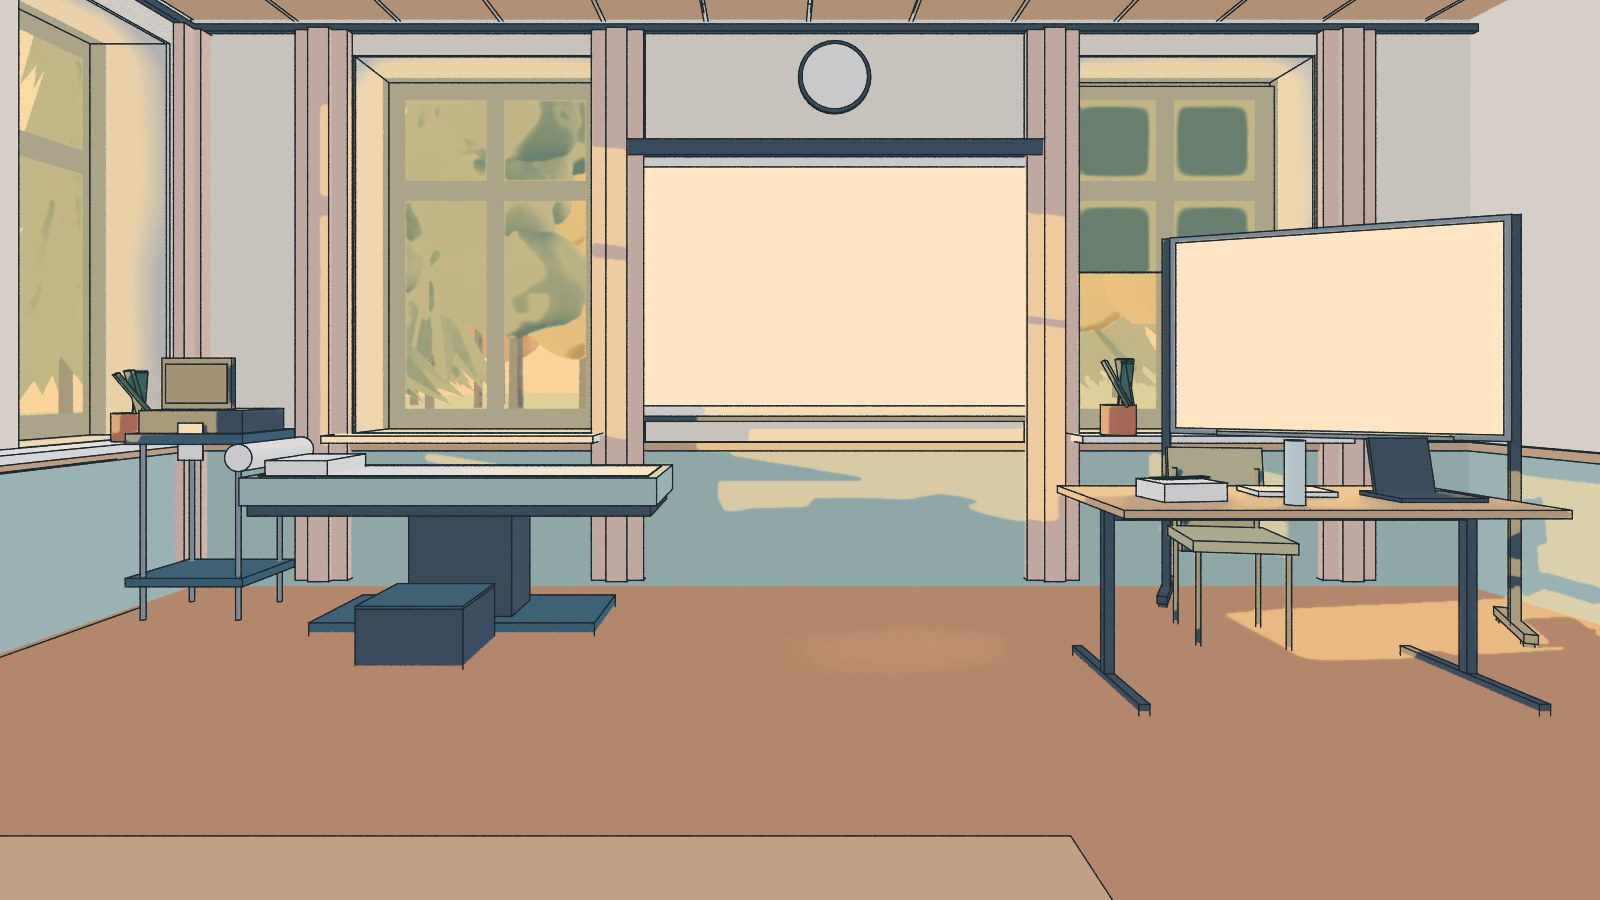
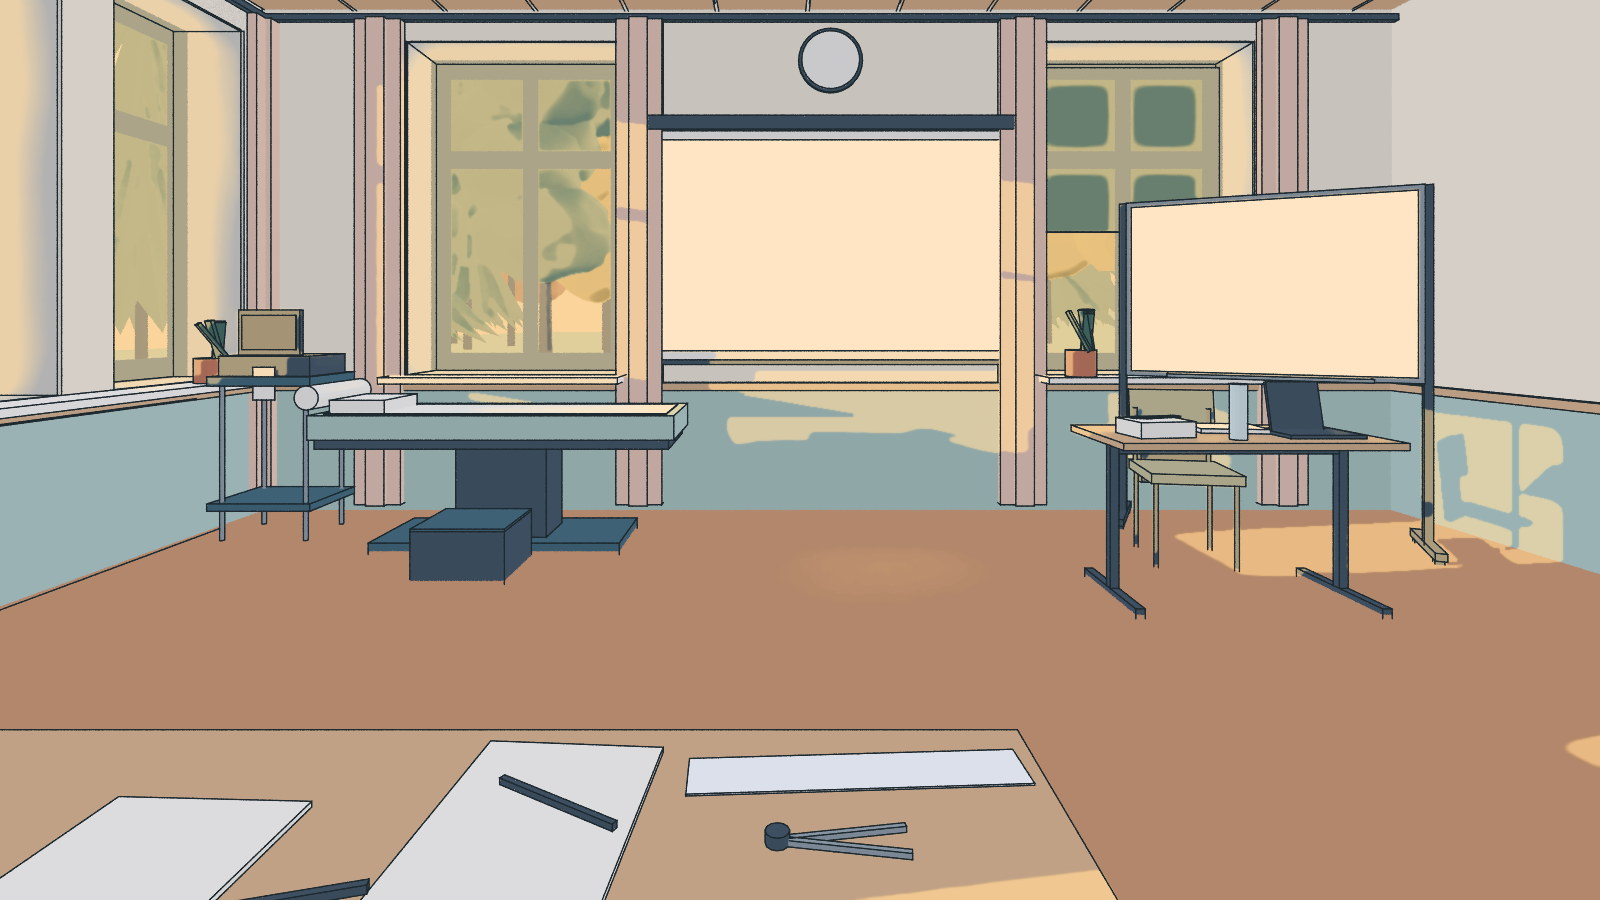
LEHRSAAL: eigene Bank mit Werkzeugen im Bild (Kamera 18 mm, tiefer), Dozententisch kleiner

diff --git a/gen/blender/szene_lehrsaal.py b/gen/blender/szene_lehrsaal.py
@@ -51,16 +51,17 @@ PALETTE = {
     "ls_kobalt": "#2F5DA8", "ls_leuchte": "#FBF6EA", "ls_glas": "#1E2A30", "ls_flasche": "#D6E4DD",
     "ls_pflanze": "#2F5A45", "ls_topf": "#C2683F", "ls_jacke": "#8E9F6B", "ls_jacke2": "#E39A86",
     "ls_stuhl": "#2E5E6B", "ls_lampe": "#C2683F", "ls_tasche": "#3F5F8C", "ls_tasche2": "#7A4E6E",
+    "ls_streifen": "#FFF8F4",
 }
 OHNE_LINIE = set()
 OHNE_SCHATTIERUNG = {"ls_projektion", "ls_tafel", "ls_leuchte", "ls_glas"}
 
-# Spielkamera: die Spielerin sitzt an der ersten Bank (Gangplatz links, Augenhöhe 1,2), Blick frontal zur Stirnwand
-# (`gier` 180: Leinwand ein exaktes Rechteck, Verschiebung statt Drehung), 20 mm. Im Bild: Liege und Wagen links vor
-# dem Giebelfenster, Leinwand mit Uhr in der Mitte, Dozententisch und Whiteboard rechts; die eigene Bank liegt unter dem
-# Bildrand bis auf ihre helle Holzkante (man sitzt). Die Türen liegen rechts außerhalb: der Ausgang ist ein Pfeil am rechten Rand.
+# Spielkamera: die Spielerin sitzt an der ersten Bank (Gangplatz links, Augenhöhe 1,25, leicht zurückgelehnt), Blick frontal
+# zur Stirnwand (`gier` 180: Leinwand ein exaktes Rechteck, Verschiebung statt Drehung), 18 mm. Im Bild: Liege und Wagen links vor
+# dem Giebelfenster, Leinwand mit Uhr in der Mitte, Dozententisch und Whiteboard rechts; unten die hintere Hälfte der eigenen
+# Bank mit Block, EKG-Streifen und Zirkel (`werkzeug`). Die Türen liegen rechts außerhalb: der Ausgang ist ein Pfeil am rechten Rand.
 # Sonne 08:10 Anfang November (47° N): Azimut 126°, Höhe 9°, fast senkrecht vor der Südostfront, lange Lichtbahnen.
-KAMERA = dict(ort=(5.65, 2.85, 1.2), ziel=(GIEBEL, 3.0, 0.8), gier=180.0, brennweite=20, sonne=(126.0, 9.0),
+KAMERA = dict(ort=(5.75, 2.85, 1.25), ziel=(GIEBEL, 3.0, 0.4), gier=180.0, brennweite=18, sonne=(126.0, 9.0),
               licht="#FFD9A3", anteil=0.6, himmel=["#9EC3E0", "#C9DCE6", "#F2D2B0"],
               schatten=0.24, schattenfarbe="#6F7FB0",   # ohne Sonne: ein Viertel zum kühlen Blau (Lofi-Vorlagen), Sonne Pfirsich
               linien_nur=("Trakt A EG", SAMMLUNG), ausbau=(SAMMLUNG,), ohne_scheiben=True,
@@ -201,14 +202,14 @@ def ausbau(h):
         box(name + " Zarge", xm - 0.02, ym - ly / 2 + 0.1, xm + 0.02, ym + ly / 2 - 0.1, h_ - 0.09, h_ - 0.03, "ls_dunkel")
 
     tx, ty = 2.1, 4.9                                          # Dozententisch rechts vor der Leinwand, quer zum Raum
-    tisch(tx, ty, 0.75, 1.6, name="LS Dozententisch")
-    kiste((0.2, 0.26, 0.07), (tx + 0.05, ty - 0.45, TISCH_H + 0.035), "ls_papier", dreh=8, name="LS Linealschachtel")
+    tisch(tx, ty, 0.6, 1.2, name="LS Dozententisch")      # klein: ein Pult für Laptop und Schachtel (Nutzer)
+    kiste((0.2, 0.26, 0.07), (tx + 0.05, ty - 0.35, TISCH_H + 0.035), "ls_papier", dreh=8, name="LS Linealschachtel")
     for k in range(5):
-        kiste((0.04, 0.19, 0.004), (tx + 0.0 + 0.025 * k, ty - 0.45, TISCH_H + 0.075 + 0.003 * k), "ls_kobalt", dreh=8 + 3 * k, name="LS Lineal")
+        kiste((0.04, 0.19, 0.004), (tx + 0.0 + 0.025 * k, ty - 0.35, TISCH_H + 0.075 + 0.003 * k), "ls_kobalt", dreh=8 + 3 * k, name="LS Lineal")
     kiste((0.21, 0.3, 0.02), (tx - 0.1, ty + 0.05, TISCH_H + 0.01), "ls_papier", dreh=-6, name="LS EKG-Blaetter")
-    kiste((0.24, 0.33, 0.015), (tx + 0.05, ty + 0.5, TISCH_H + 0.008), "ls_dunkel", dreh=0, name="LS Laptop")
-    kiste((0.24, 0.015, 0.22), (tx - 0.07, ty + 0.5, TISCH_H + 0.12), "ls_dunkel", dreh=90, kipp=-12, name="LS Laptop Deckel")
-    zyl(0.035, 0.24, (tx + 0.22, ty - 0.1, TISCH_H + 0.12), "ls_flasche", v=14, name="LS Flasche")
+    kiste((0.24, 0.33, 0.015), (tx + 0.05, ty + 0.35, TISCH_H + 0.008), "ls_dunkel", dreh=0, name="LS Laptop")
+    kiste((0.24, 0.015, 0.22), (tx - 0.07, ty + 0.35, TISCH_H + 0.12), "ls_dunkel", dreh=90, kipp=-12, name="LS Laptop Deckel")
+    zyl(0.035, 0.24, (tx + 0.18, ty - 0.05, TISCH_H + 0.12), "ls_flasche", v=14, name="LS Flasche")
 
     # Whiteboard auf fahrbarem Gestell hinter dem Tisch, vor dem rechten Giebelfenster, zur Klasse gedreht (die Flurwand
     # liegt außerhalb des Bilds der Spielkamera an der ersten Bank). Lokal +x = Tafelseite.
@@ -266,9 +267,23 @@ def ausbau(h):
         if tasche:
             kiste((0.34, 0.14, 0.3), P(0.32, -0.05, 0.15), tasche, dreh=dreh + zr.uniform(-20, 20), fase=0.04, name=name + " Tasche")
 
-    stuhl(tx - 0.65, ty + 0.1, dreh=90 - 10, name="LS Stuhl Dozentin", jacke="ls_dunkel")   # hinter dem Tisch (rechts am Bildrand lag er als dunkler Klotz)
+    stuhl(tx - 0.58, ty + 0.1, dreh=90 - 10, name="LS Stuhl Dozentin", jacke="ls_dunkel")   # hinter dem Tisch (rechts am Bildrand lag er als dunkler Klotz)
 
     # ---------------- Tischreihen ----------------
+    def werkzeug(xm, yp):
+        """Platz der Spielerin an der ersten Bank, im unteren Bildrand der Spielkamera: Block mit Bleistift, ein
+        EKG-Streifen (Papier wie die Leinwand, die Kurve legt das Spiel darauf) und der Zirkel, offen. Nur auf der
+        hinteren Hälfte der Platte (x < 5,05), die vordere liegt unter dem Bildrand."""
+        z = TISCH_H
+        kiste((0.21, 0.29, 0.006), (xm - 0.06, yp - 0.25, z + 0.003), "ls_papier", dreh=90 - 4, name="LS Platz Block")
+        kiste((0.007, 0.16, 0.007), (xm - 0.08, yp - 0.23, z + 0.012), "ls_dunkel", dreh=-30, name="LS Platz Stift")
+        kiste((0.07, 0.38, 0.002), (xm - 0.15, yp + 0.09, z + 0.004), "ls_streifen", dreh=3, name="LS Platz Streifen")
+        hx, hy = xm - 0.03, yp + 0.0                           # Zirkel: Kopf, zwei Schenkel offen zur Seite (+y), flach gelegt
+        zyl(0.012, 0.012, (hx, hy, z + 0.008), "ls_dunkel", v=12, name="LS Platz Zirkel Kopf")
+        for w in (-9, 9):
+            ri = (-math.sin(math.radians(w)), math.cos(math.radians(w)))
+            kiste((0.006, 0.13, 0.006), (hx + 0.065 * ri[0], hy + 0.065 * ri[1], z + 0.004), "ls_metall", dreh=w, name="LS Platz Zirkel")
+
     for r, xm in enumerate(REIHEN_X):
         for (ya, yb) in BLOECKE:
             tisch(xm, (ya + yb) / 2, TISCH_T, yb - ya)
@@ -279,9 +294,14 @@ def ausbau(h):
                 tasche = zr.choice((None,) * 8 + ("ls_tasche", "ls_tasche2"))
                 if r == len(REIHEN_X) - 1: tasche = None    # keine dunklen Klötze am unteren Bildrand (ART_BIBLE §3.3)
                 stuhl(xm + TISCH_T / 2 + 0.3 + raus, yp, dreh, jacke=jacke, tasche=tasche)
+                platz = r == 0 and (ya, yb) == BLOECKE[0] and p == 2     # Platz der Spielerin (Kamera): eigene Werkzeuge, unten
                 if zr.random() < 0.55:                     # Block und Stift am Platz
-                    kiste((0.21, 0.29, 0.006), (xm + 0.05, yp, TISCH_H + 0.003), "ls_papier", dreh=90 + zr.uniform(-8, 8), name="LS Block")
-                    kiste((0.008, 0.14, 0.008), (xm + 0.06, yp + 0.17, TISCH_H + 0.01), "ls_dunkel", dreh=zr.uniform(-20, 20), name="LS Stift")
+                    w1, w2 = zr.uniform(-8, 8), zr.uniform(-20, 20)
+                    if not platz:
+                        kiste((0.21, 0.29, 0.006), (xm + 0.05, yp, TISCH_H + 0.003), "ls_papier", dreh=90 + w1, name="LS Block")
+                        kiste((0.008, 0.14, 0.008), (xm + 0.06, yp + 0.17, TISCH_H + 0.01), "ls_dunkel", dreh=w2, name="LS Stift")
+                if platz:
+                    werkzeug(xm, yp)
             if zr.random() < 0.6:                          # eine Wasserflasche je zweitem Tisch
                 zyl(0.028, 0.2, (xm - 0.15, ya + 0.25 + zr.uniform(0, 1.2), TISCH_H + 0.1), "ls_flasche", v=14, name="LS Flasche")
 

diff --git a/docs/raeume/lehrsaal.md b/docs/raeume/lehrsaal.md
@@ -165,15 +165,16 @@ Zonen überlappen nicht (§7.6): `jonas` und `liege` getrennt wie `herrk` und `t
 ## 7. Kamera und Ebenen
 
 - **Die Spielerin sitzt an der ersten Bank** (Wunsch des Nutzers, 25.10.2026), Gangplatz im linken Block: Kamera
-  (5,65 / 2,85 / 1,2), Blick frontal zur Stirnwand (`gier` 180), Ziel (0,45 / 3,0 / 0,8), 20 mm, Bild 1600 × 900,
+  (5,75 / 2,85 / 1,25), Blick frontal zur Stirnwand (`gier` 180), Ziel (0,45 / 3,0 / 0,4), 18 mm, Bild 1600 × 900,
   Objektivverschiebung statt Drehung (die Leinwand bleibt ein exaktes Rechteck). Im Bild: Leinwand mit Uhr darüber in
   der Mitte, links Liege und Wagen vor dem linken Giebelfenster, rechts Dozententisch und Whiteboard auf Gestell, unten
-  die helle Holzkante der eigenen Bank. Die Türen liegen rechts außerhalb: `ausgang` ist ein Pfeil am rechten Bildrand.
+  die eigene Bank mit den Werkzeugen der Spielerin (Block mit Bleistift, EKG-Streifen quer, Zirkel offen; Wunsch des
+  Nutzers: „dort liegen die nötigen Instrumente"). Das Lineal kommt erst aus der Schachtel (`lineale`). Die Türen liegen rechts außerhalb: `ausgang` ist ein Pfeil am rechten Bildrand.
   Render: `python3 gen/blender/haus_blockout.py render lehrsaal`. Der frühere Blick von hinten längs des Saals (14,05 /
   3,6 / 1,55, 24 mm) zeigte den ganzen Raum, aber Liege, Whiteboard und Uhr nur klein; dafür sind die Tischreihen
   gebaut, der Saal ist derselbe.
 - **Kein angeschnittener dunkler Vordergrund** (§3.3): deshalb der Stuhl der Dozentin hinter dem Tisch statt am
-  rechten Bildrand; die eigene Bank zeigt nur ihre helle Kante.
+  rechten Bildrand; die eigene Bank ist hell (Holz, Papier) und trägt nur die Werkzeuge.
 - **Ebenen** (§3.4): Hintergrund (Hülle, Fenster, Decke, Leinwand, Whiteboard, Uhr, Türen, Vorhänge, Beamer);
   Mittelgrund (Liege, Wagen, Tische, Stühle, Schachtel); Figuren (Dr. Wieser, Jonas, Mitstudierende,
   Spielerinnenschatten). Die Trennung kommt mit der Ebenen-Pipeline für Hausräume.
@@ -191,7 +192,7 @@ Hauskoordinaten (KRANKENHAUS §2), Werte in `gen/blender/szene_lehrsaal.py` oben
 | Türen | Flurwand y 7, Mitte x 3,9 und x 9,8, je 1,0 × 2,1 |
 | Leinwand | 2,4 × 1,5 m, Mitte y 3,2, Unterkante z 1,0, an der Stirnwand |
 | Whiteboard | auf fahrbarem Gestell, 1,4 × 1,0 m, Mitte (1,15 / 5,65), z 0,95 … 1,95, um −28° zur Klasse gedreht, vor dem rechten Giebelfenster; Wanduhr Ø 0,42 über der Leinwand, Mitte z 2,97 |
-| Dozententisch | 1,6 × 0,75 m, Mitte (2,1 / 4,9), quer zum Saal |
+| Dozententisch | 1,2 × 0,6 m (Pult, vom Nutzer verkleinert), Mitte (2,1 / 4,9), quer zum Saal |
 | Liege | 1,95 × 0,65 m, quer vor dem linken Giebelfenster: x 0,85 … 1,5, y 0,35 … 2,3, Liegefläche 0,75 m (unter der Brüstung), Kopfende zur Fensterwand, Füße zur Leinwand, Tritt zur Raumseite; der Freiwillige zeigt der Klasse seine rechte Seite |
 | EKG-Wagen | Mitte (1,175 / 0,03), am Kopfende in der Ecke, Schirm zur Klasse |
 | Tischreihen | Tischmitten x 5,0 / 6,2 / 7,4 / 8,6 / 9,8; Blöcke y 1,35 … 3,15 und 4,05 … 5,85; Tisch 0,5 tief, 0,74 hoch; Stühle 0,55 hinter der Tischmitte |
